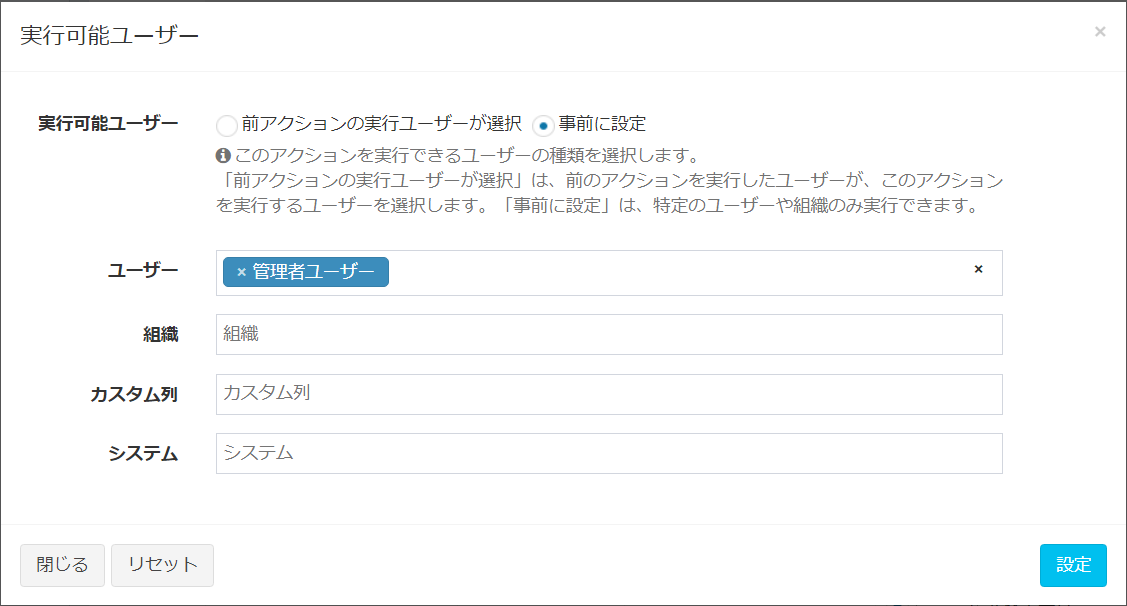
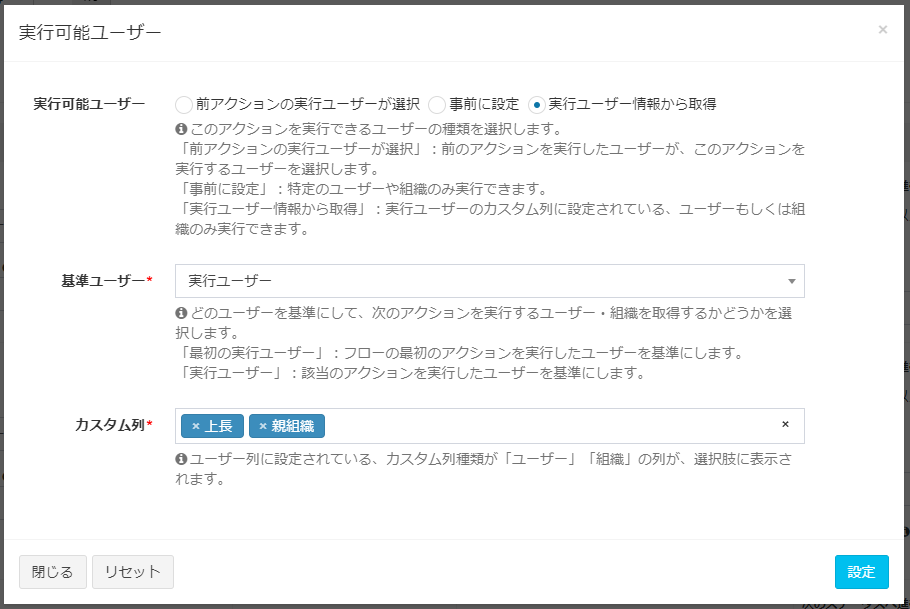
Append workflow manual

diff --git a/docs/ja/workflow_setting.md b/docs/ja/workflow_setting.md
@@ -113,14 +113,14 @@ Exmentのワークフローで使用する、用語を説明します。
 ![ワークフロー画面](img/workflow/workflow_action4.png)  
 
 ##### 実行可能ユーザー：前アクションの実行ユーザーが選択
-フローの実施時、実行するユーザーが、どのユーザー・組織あてにアクションを実施するか、都度入力を行います。  
+アクションの実施時、実行するユーザーが、どのユーザー・組織あてに実施するか、都度選択を行います。  
   
-![ワークフロー画面](img/workflow/workflow_action6.png)
+![ワークフロー画面](img/workflow/workflow_action8.png)
 
 ##### 実行可能ユーザー：事前に設定
 どのユーザー・組織あてにアクションを実施するか、あらかじめ管理者によって設定を行っておきます。その設定に従って、フローが実行されます。  
   
-![ワークフロー画面](img/workflow/workflow_action7.png)
+![ワークフロー画面](img/workflow/workflow_action9.png)
 
 **■管理者設定はこちら**
 
@@ -135,6 +135,25 @@ Exmentのワークフローで使用する、用語を説明します。
 
 - <span class="heading_smaller_than_h5">システム > 作成ユーザー</span>  
 カスタムデータを作成したユーザーが、アクションを実行できます。
+
+
+##### 実行可能ユーザー：実行ユーザー情報から取得
+ワークフローを実行するユーザーの情報を取得します。設定されているユーザー・組織項目の値を取得し、そのユーザー・組織に、アクションを実行します。
+
+- 例1：ユーザーAの上長が「部長X」の場合、部長Xにアクションを実行
+- 例2：ユーザーBの上長が「部長Y」「部長Z」の場合、部長Xもしくは部長Zにアクションを実行
+  
+![ワークフロー画面](img/workflow/workflow_action10.png)
+
+**■基準ユーザー**
+
+ログインユーザーに設定されている、ユーザーまたは組織の値を取得する際、どのユーザーを基準にしてアクションを実行するかどうかを選択します。  
+- 「最初の実行ユーザー」：フローの最初のアクションを実行したユーザーを基準にします。  
+- 「実行ユーザー」：該当のアクションを実行したユーザーを基準にします。  
+
+**■カスタム列**
+
+ユーザーテーブルの「ユーザーもしくは組織」列が、候補に表示されます。アクション実行時、ログインユーザーに設定されているユーザーまたは組織が、次のアクションを実行できます。  
 
 
 #### オプション設定 > 次のステータスへ進む条件  
@@ -160,7 +179,6 @@ Exmentのワークフローで使用する、用語を説明します。
 
 クリックすることで、ワークフローの設定を完了します。  
 ※設定完了すると、以下の内容が実施できなくなります。 
-- ワークフローの削除
 - ステータスの追加、削除、順番変更
 
 

diff --git a/docs/ja/workflow_execution.md b/docs/ja/workflow_execution.md
@@ -33,3 +33,17 @@
 
 ![ワークフロー画面](img/workflow/workflow_data4.png)  
 
+## (上級者向け)ワークフローのデータのリセット
+
+進行中のワークフローのデータをリセットすることができます。なんらかの理由で、ワークフローが進行不可能になった場合に実行してください。  
+コマンド実行が必要です。プロジェクトのルートディレクトリで、以下のコマンドを実行してください。
+
+~~~
+php artisan exment:workflow-clear (テーブル名) (ID)
+
+# 実行例 テーブル名"estimate"、 ID"6"のデータのワークフロー進行をリセットする場合
+php artisan exment:workflow-clear estimate 6
+
+# 実行例 テーブル名"syusseki"、 ID"600"のデータのワークフロー進行をリセットする場合
+php artisan exment:workflow-clear syusseki 600
+~~~
